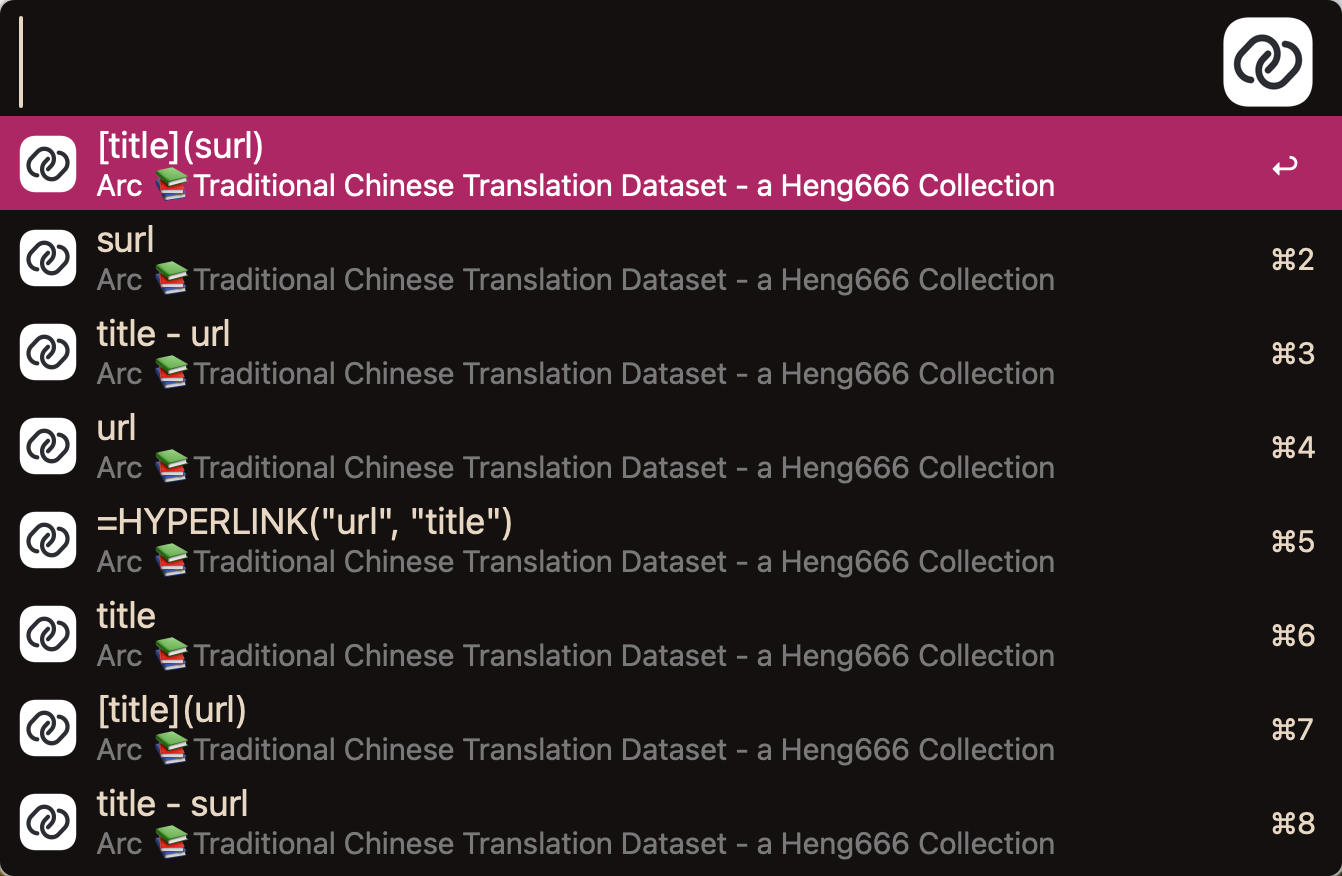
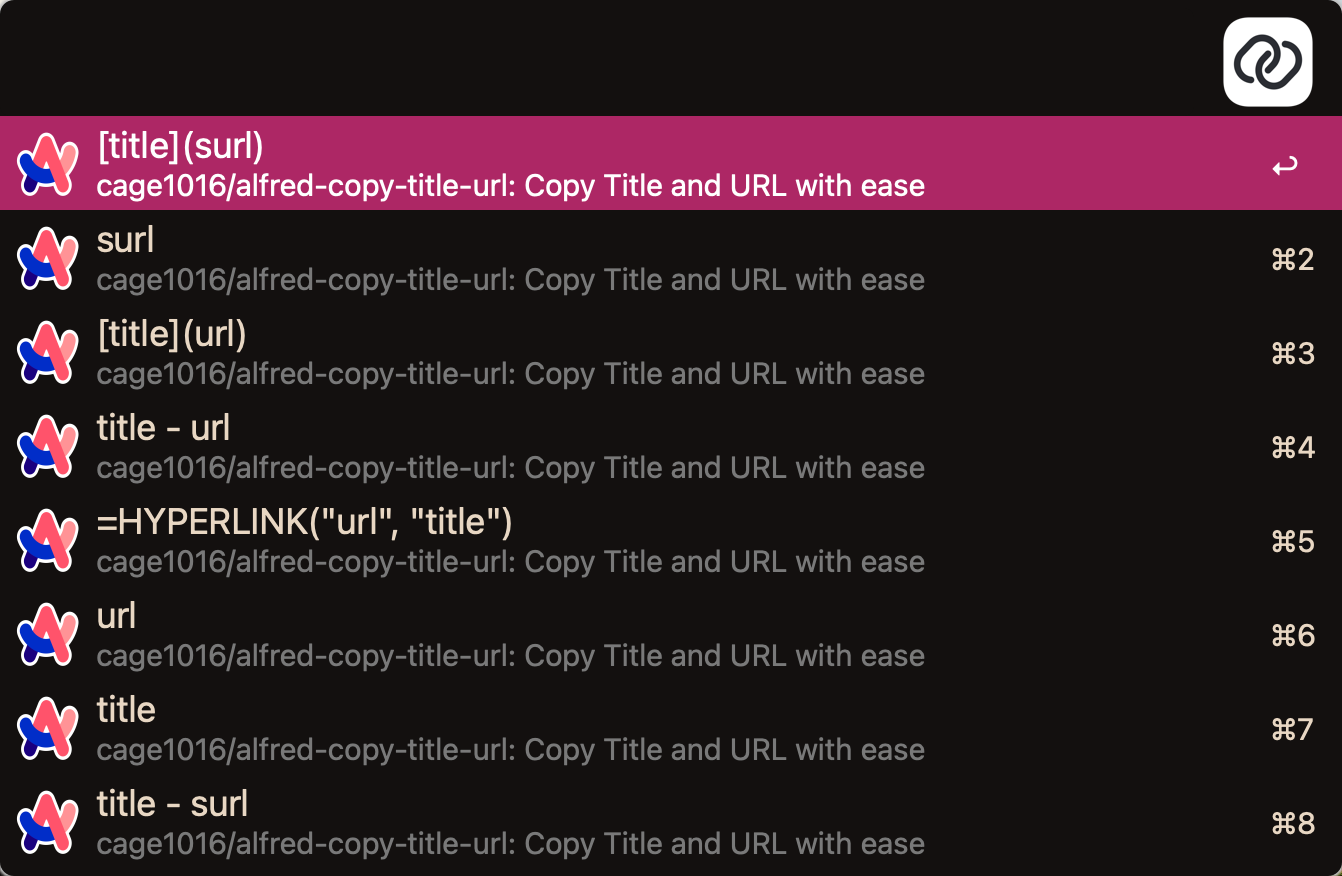
feat: fix and Standardize Release Image Display across All Pages
- Added screenshots for Release sections
- Replaced screenshot locations in `*.md` files
- Merged multiple images in GitHub social media section
- Fixed the pattern image path

Let me know what's next!

diff --git a/README.md b/README.md
@@ -11,7 +11,7 @@ Visit the [Releases](https://github.com/cage1016/alfred-copy-title-url/releases)
 
 ## Usage
 
-![](./screenshots/1.png)
+![](./screenshots/0.png)
 
 ### Supported patterns
 You might add a custom pattern as your own pattern with the keywords (`title`, `url`, and shortened URL `surl`). The following patterns are supported by default:
